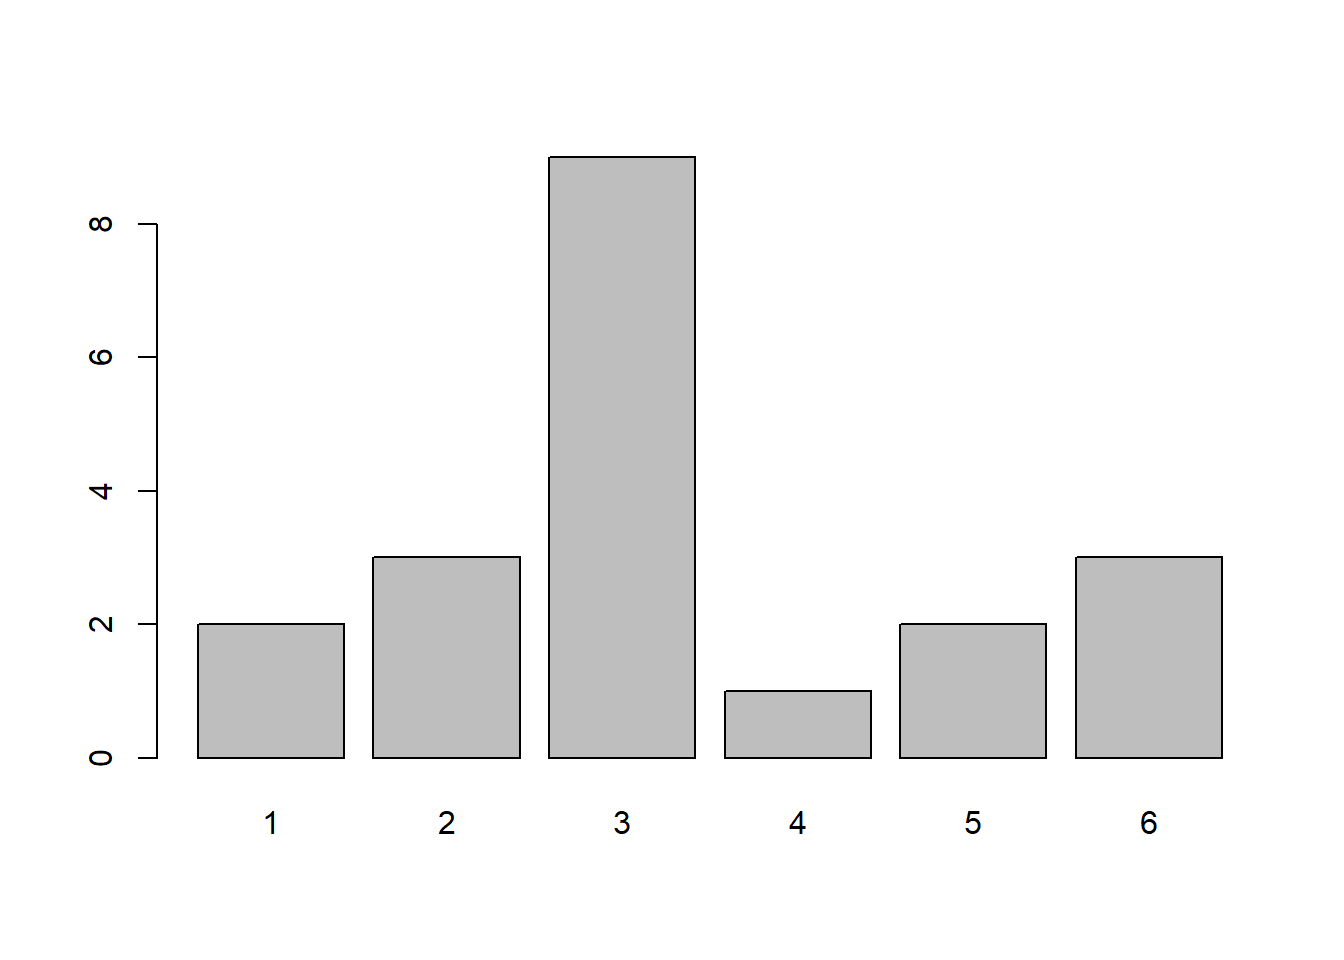
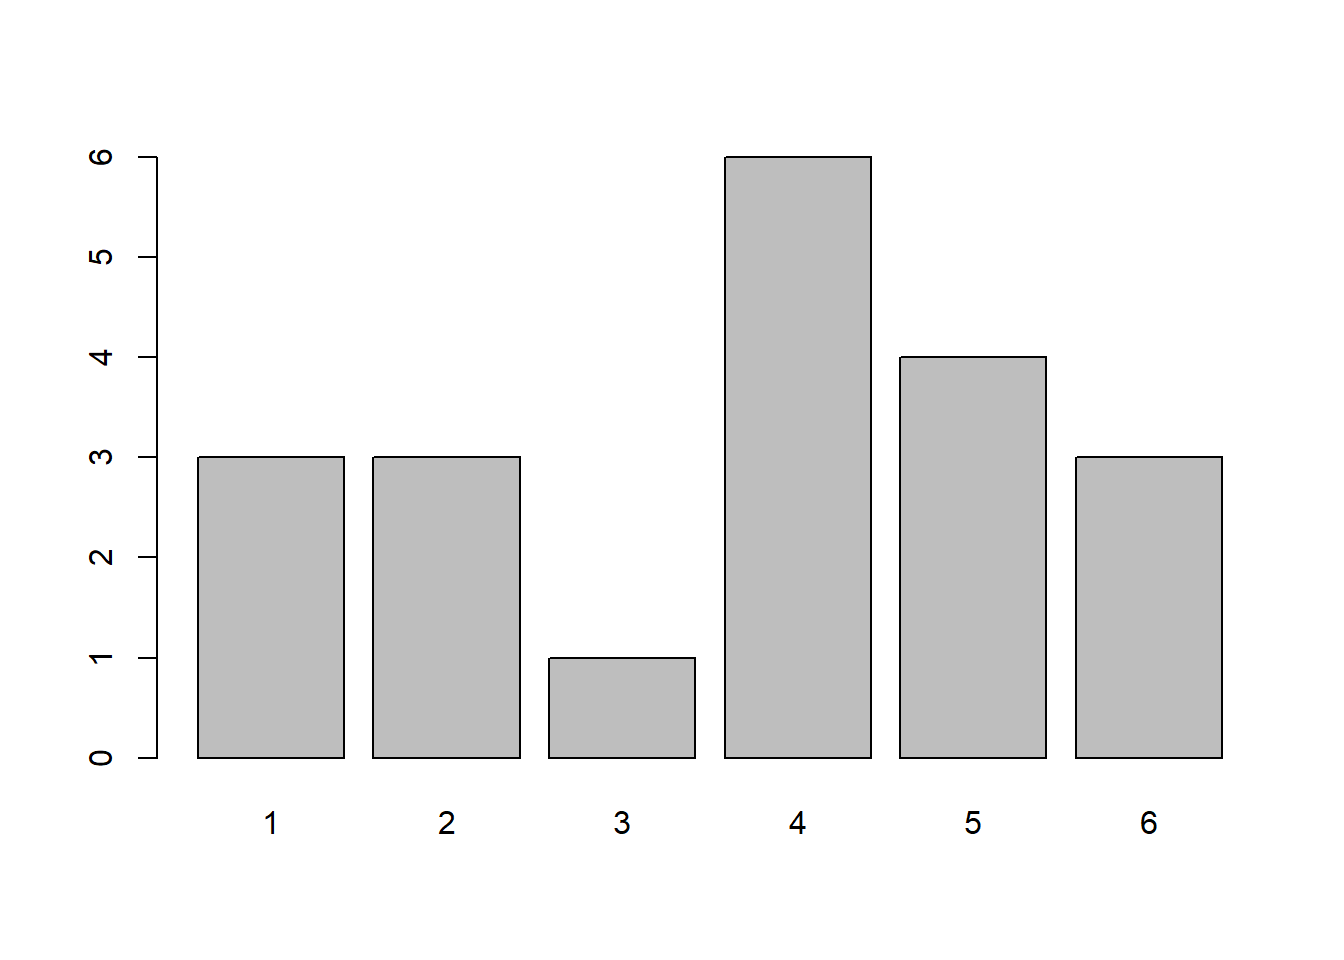
tutors version, rendering filters

diff --git a/docs/2324/labs/01_exCROCODILE.html b/docs/2324/labs/01_exCROCODILE.html
@@ -123,7 +123,9 @@ if(f.classList.contains('fa-circle-right')) {
       <button type="button" class="quarto-btn-toggle btn" data-bs-toggle="collapse" data-bs-target="#quarto-sidebar,#quarto-sidebar-glass" aria-controls="quarto-sidebar" aria-expanded="false" aria-label="Toggle sidebar navigation" onclick="if (window.quartoToggleHeadroom) { window.quartoToggleHeadroom(); }">
         <i class="bi bi-layout-text-sidebar-reverse"></i>
       </button>
-      <nav class="quarto-page-breadcrumbs" aria-label="breadcrumb"><ol class="breadcrumb"><li class="breadcrumb-item"><a href="./01a_R.html">Week 1</a></li><li class="breadcrumb-item"><a href="./01_ex.html">Exercises: Intro R</a></li></ol></nav>
+      <nav class="quarto-page-breadcrumbs" aria-label="breadcrumb"><ol class="breadcrumb"><li class="breadcrumb-item">
+      USMR
+      </li></ol></nav>
       <a class="flex-grow-1" role="button" data-bs-toggle="collapse" data-bs-target="#quarto-sidebar,#quarto-sidebar-glass" aria-controls="quarto-sidebar" aria-expanded="false" aria-label="Toggle sidebar navigation" onclick="if (window.quartoToggleHeadroom) { window.quartoToggleHeadroom(); }">      
       </a>
       <button type="button" class="btn quarto-search-button" aria-label="Search" onclick="window.quartoOpenSearch();">
@@ -150,13 +152,13 @@ if(f.classList.contains('fa-circle-right')) {
     <ul class="list-unstyled mt-1">
         <li class="sidebar-item sidebar-item-section">
       <div class="sidebar-item-container"> 
-            <a class="sidebar-item-text sidebar-link text-start" data-bs-toggle="collapse" data-bs-target="#quarto-sidebar-section-1" aria-expanded="true">
+            <a class="sidebar-item-text sidebar-link text-start collapsed" data-bs-toggle="collapse" data-bs-target="#quarto-sidebar-section-1" aria-expanded="false">
  <span class="menu-text">Week 1</span></a>
-          <a class="sidebar-item-toggle text-start" data-bs-toggle="collapse" data-bs-target="#quarto-sidebar-section-1" aria-expanded="true" aria-label="Toggle section">
+          <a class="sidebar-item-toggle text-start collapsed" data-bs-toggle="collapse" data-bs-target="#quarto-sidebar-section-1" aria-expanded="false" aria-label="Toggle section">
             <i class="bi bi-chevron-right ms-2"></i>
           </a> 
       </div>
-      <ul id="quarto-sidebar-section-1" class="collapse list-unstyled sidebar-section depth1 show">  
+      <ul id="quarto-sidebar-section-1" class="collapse list-unstyled sidebar-section depth1 ">  
           <li class="sidebar-item">
   <div class="sidebar-item-container"> 
   <a href="./01a_R.html" class="sidebar-item-text sidebar-link">
@@ -171,7 +173,7 @@ if(f.classList.contains('fa-circle-right')) {
 </li>
           <li class="sidebar-item">
   <div class="sidebar-item-container"> 
-  <a href="./01_ex.html" class="sidebar-item-text sidebar-link active">
+  <a href="./01_ex.html" class="sidebar-item-text sidebar-link">
  <span class="menu-text">Exercises: Intro R</span></a>
   </div>
 </li>
@@ -763,19 +765,19 @@ Hints
 <div class="cell" data-layout-align="center">
 <div class="sourceCode cell-code" id="cb29"><pre class="sourceCode r code-with-copy"><code class="sourceCode r"><span id="cb29-1"><a href="#cb29-1" aria-hidden="true" tabindex="-1"></a><span class="fu">dice</span>()</span></code><button title="Copy to Clipboard" class="code-copy-button"><i class="bi"></i></button></pre></div>
 <div class="cell-output cell-output-stdout">
-<pre><code>[1] 2</code></pre>
+<pre><code>[1] 1</code></pre>
 </div>
 <div class="sourceCode cell-code" id="cb31"><pre class="sourceCode r code-with-copy"><code class="sourceCode r"><span id="cb31-1"><a href="#cb31-1" aria-hidden="true" tabindex="-1"></a><span class="fu">dice</span>()</span></code><button title="Copy to Clipboard" class="code-copy-button"><i class="bi"></i></button></pre></div>
 <div class="cell-output cell-output-stdout">
-<pre><code>[1] 5</code></pre>
+<pre><code>[1] 2</code></pre>
 </div>
 <div class="sourceCode cell-code" id="cb33"><pre class="sourceCode r code-with-copy"><code class="sourceCode r"><span id="cb33-1"><a href="#cb33-1" aria-hidden="true" tabindex="-1"></a><span class="fu">dice</span>()</span></code><button title="Copy to Clipboard" class="code-copy-button"><i class="bi"></i></button></pre></div>
 <div class="cell-output cell-output-stdout">
-<pre><code>[1] 6</code></pre>
+<pre><code>[1] 4</code></pre>
 </div>
 <div class="sourceCode cell-code" id="cb35"><pre class="sourceCode r code-with-copy"><code class="sourceCode r"><span id="cb35-1"><a href="#cb35-1" aria-hidden="true" tabindex="-1"></a><span class="fu">dice</span>()</span></code><button title="Copy to Clipboard" class="code-copy-button"><i class="bi"></i></button></pre></div>
 <div class="cell-output cell-output-stdout">
-<pre><code>[1] 6</code></pre>
+<pre><code>[1] 4</code></pre>
 </div>
 </div>
 </div>
@@ -796,10 +798,10 @@ What does each value in this object represent?</p>
 <div class="sourceCode cell-code" id="cb37"><pre class="sourceCode r code-with-copy"><code class="sourceCode r"><span id="cb37-1"><a href="#cb37-1" aria-hidden="true" tabindex="-1"></a>rolls20 <span class="ot">&lt;-</span> <span class="fu">replicate</span>(<span class="dv">20</span>, <span class="fu">dice</span>(<span class="at">num =</span> <span class="dv">1</span>))</span>
 <span id="cb37-2"><a href="#cb37-2" aria-hidden="true" tabindex="-1"></a>rolls20</span></code><button title="Copy to Clipboard" class="code-copy-button"><i class="bi"></i></button></pre></div>
 <div class="cell-output cell-output-stdout">
-<pre><code> [1] 4 5 4 5 2 6 4 6 6 2 4 4 4 5 1 1 2 5 3 1</code></pre>
+<pre><code> [1] 4 6 4 6 3 4 1 6 5 3 6 1 6 1 3 2 5 5 1 6</code></pre>
 </div>
 </div>
-<p>Each value in <code>rolls20</code> represents the simulated roll of a single die. We roll our die, and get a 4, we roll it again and get 5, the third roll we get 4, and so on..</p>
+<p>Each value in <code>rolls20</code> represents the simulated roll of a single die. We roll our die, and get a 4, we roll it again and get 6, the third roll we get 4, and so on..</p>
 </div>
 <p class="solution-end">
 </p>
@@ -835,14 +837,14 @@ Hints
 <div class="cell-output cell-output-stdout">
 <pre><code>rolls20
 1 2 3 4 5 6 
-3 3 1 6 4 3 </code></pre>
+4 1 3 3 3 6 </code></pre>
 </div>
 <div class="sourceCode cell-code" id="cb41"><pre class="sourceCode r code-with-copy"><code class="sourceCode r"><span id="cb41-1"><a href="#cb41-1" aria-hidden="true" tabindex="-1"></a><span class="co"># Which we can then pass to the barplot() function:</span></span>
 <span id="cb41-2"><a href="#cb41-2" aria-hidden="true" tabindex="-1"></a><span class="fu">barplot</span>(<span class="fu">table</span>(rolls20))</span></code><button title="Copy to Clipboard" class="code-copy-button"><i class="bi"></i></button></pre></div>
 <div class="cell-output-display">
 <div class="quarto-figure quarto-figure-center">
 <figure class="figure">
-<p><img src="01_ex_files/figure-html/unnamed-chunk-19-1.png" class="img-fluid figure-img" style="width:80.0%"></p>
+<p><img src="01_exCROCODILE_files/figure-html/unnamed-chunk-19-1.png" class="img-fluid figure-img" style="width:80.0%"></p>
 </figure>
 </div>
 </div>
@@ -865,7 +867,7 @@ Question 13
 <div class="cell-output-display">
 <div class="quarto-figure quarto-figure-center">
 <figure class="figure">
-<p><img src="01_ex_files/figure-html/unnamed-chunk-20-1.png" class="img-fluid figure-img" style="width:80.0%"></p>
+<p><img src="01_exCROCODILE_files/figure-html/unnamed-chunk-20-1.png" class="img-fluid figure-img" style="width:80.0%"></p>
 </figure>
 </div>
 </div>
@@ -874,7 +876,7 @@ Question 13
 <div class="cell-output-display">
 <div class="quarto-figure quarto-figure-center">
 <figure class="figure">
-<p><img src="01_ex_files/figure-html/unnamed-chunk-20-2.png" class="img-fluid figure-img" style="width:80.0%"></p>
+<p><img src="01_exCROCODILE_files/figure-html/unnamed-chunk-20-2.png" class="img-fluid figure-img" style="width:80.0%"></p>
 </figure>
 </div>
 </div>
@@ -908,7 +910,7 @@ Question 14
 <div class="cell-output-display">
 <div class="quarto-figure quarto-figure-center">
 <figure class="figure">
-<p><img src="01_ex_files/figure-html/unnamed-chunk-22-1.png" class="img-fluid figure-img" style="width:80.0%"></p>
+<p><img src="01_exCROCODILE_files/figure-html/unnamed-chunk-22-1.png" class="img-fluid figure-img" style="width:80.0%"></p>
 </figure>
 </div>
 </div>
@@ -917,7 +919,7 @@ Question 14
 <div class="cell-output-display">
 <div class="quarto-figure quarto-figure-center">
 <figure class="figure">
-<p><img src="01_ex_files/figure-html/unnamed-chunk-22-2.png" class="img-fluid figure-img" style="width:80.0%"></p>
+<p><img src="01_exCROCODILE_files/figure-html/unnamed-chunk-22-2.png" class="img-fluid figure-img" style="width:80.0%"></p>
 </figure>
 </div>
 </div>
@@ -926,7 +928,7 @@ Question 14
 <div class="cell-output-display">
 <div class="quarto-figure quarto-figure-center">
 <figure class="figure">
-<p><img src="01_ex_files/figure-html/unnamed-chunk-22-3.png" class="img-fluid figure-img" style="width:80.0%"></p>
+<p><img src="01_exCROCODILE_files/figure-html/unnamed-chunk-22-3.png" class="img-fluid figure-img" style="width:80.0%"></p>
 </figure>
 </div>
 </div>
@@ -1000,7 +1002,7 @@ Question 17
 <div class="cell-output-display">
 <div class="quarto-figure quarto-figure-center">
 <figure class="figure">
-<p><img src="01_ex_files/figure-html/unnamed-chunk-24-1.png" class="img-fluid figure-img" style="width:80.0%"></p>
+<p><img src="01_exCROCODILE_files/figure-html/unnamed-chunk-24-1.png" class="img-fluid figure-img" style="width:80.0%"></p>
 </figure>
 </div>
 </div>
